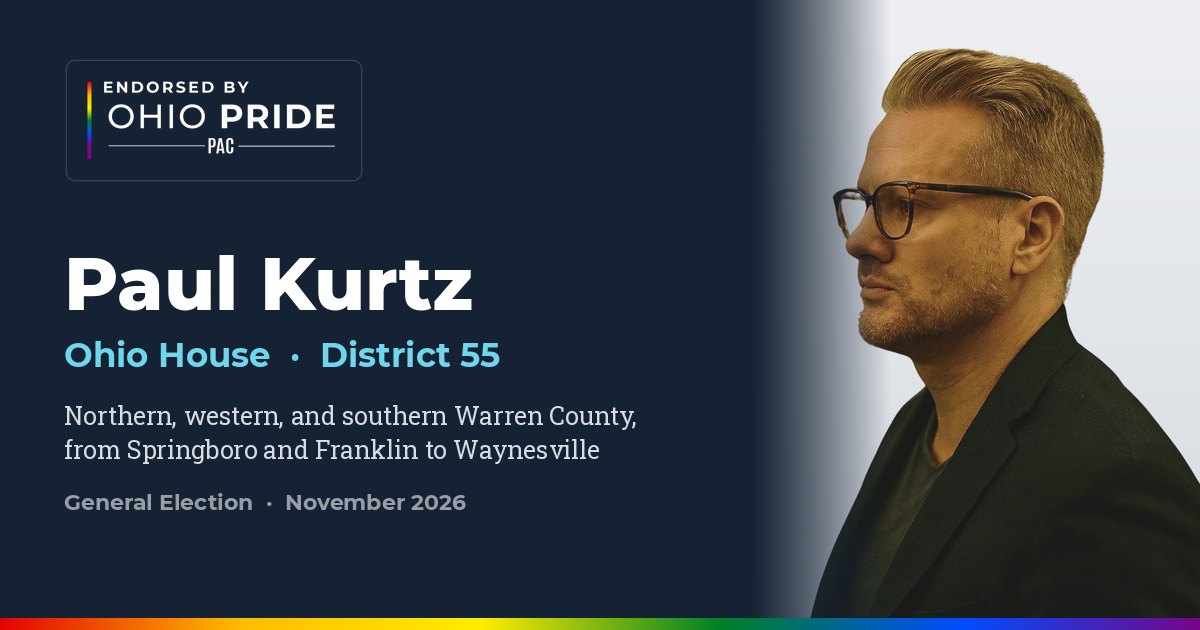
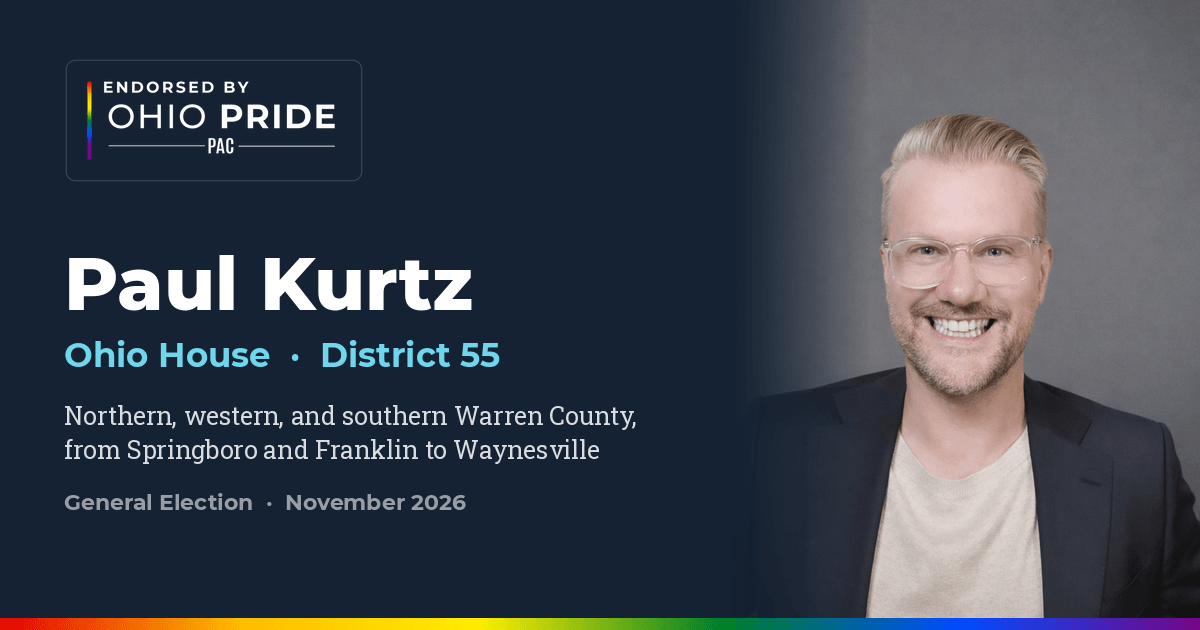
Endorsements: swap Paul Kurtz to the campaign headshot (#231)
The campaign supplied a front-facing headshot, so the profile cutout that
shipped as a placeholder is gone.

- paul-kurtz.jpg: 4:5 crop of the 1024x1024 original, scaled to 1080x1350.
  Face sits high enough that the grid's `center 20%` 1:1 crop holds.
- og-endorsement-paul-kurtz.png: only the 470px photo panel is rebuilt, on
  the same geometry as the generator (140px fade into the navy, pride bar
  laid back down on top). Badge, type and region copy are untouched.
- photoAlt and the README photo note describe the new image.

npm run build and npm run check:brand pass.

Claude-Session: https://claude.ai/code/session_01N6hRErbLuiHBQoJDbKuscf

diff --git a/public/assets/endorsements/README.md b/public/assets/endorsements/README.md
@@ -31,11 +31,10 @@ Drop campaign photos here named by candidate slug:
 - `job-perry.jpg` — Job Esau Perry, Summit County Common Pleas (2026).
   Approved campaign photo: blue suit, carved doors of the county courthouse.
 - `paul-kurtz.jpg`: Paul Kurtz, OH House District 55 (2026). Campaign
-  profile portrait (the cutout the campaign uses on paulmichaelkurtz.com and
-  BallotReady) composited on a gray studio backdrop at 1080x1350. He is a
-  side profile, flush right; the face sits in the upper 40 percent so the
-  grid's 1:1 crop holds. Ask the campaign for a front-facing headshot and
-  swap it in here when one exists.
+  headshot: clear-framed glasses, navy blazer over a cream tee, gray studio
+  backdrop. Cropped to 4:5 from the 1024x1024 original and scaled to
+  1080x1350. Replaced the profile cutout the campaign uses on
+  paulmichaelkurtz.com, which shipped 2026-09-04 as a placeholder.
 - `jordan-haire.jpg`: Jordan Haire, OH House District 47 (2026). Campaign
   headshot: glasses, olive top, arms crossed, peach backdrop. Cropped to
   1080x1350 from the 2396x3600 original the campaign supplied to the Butler
